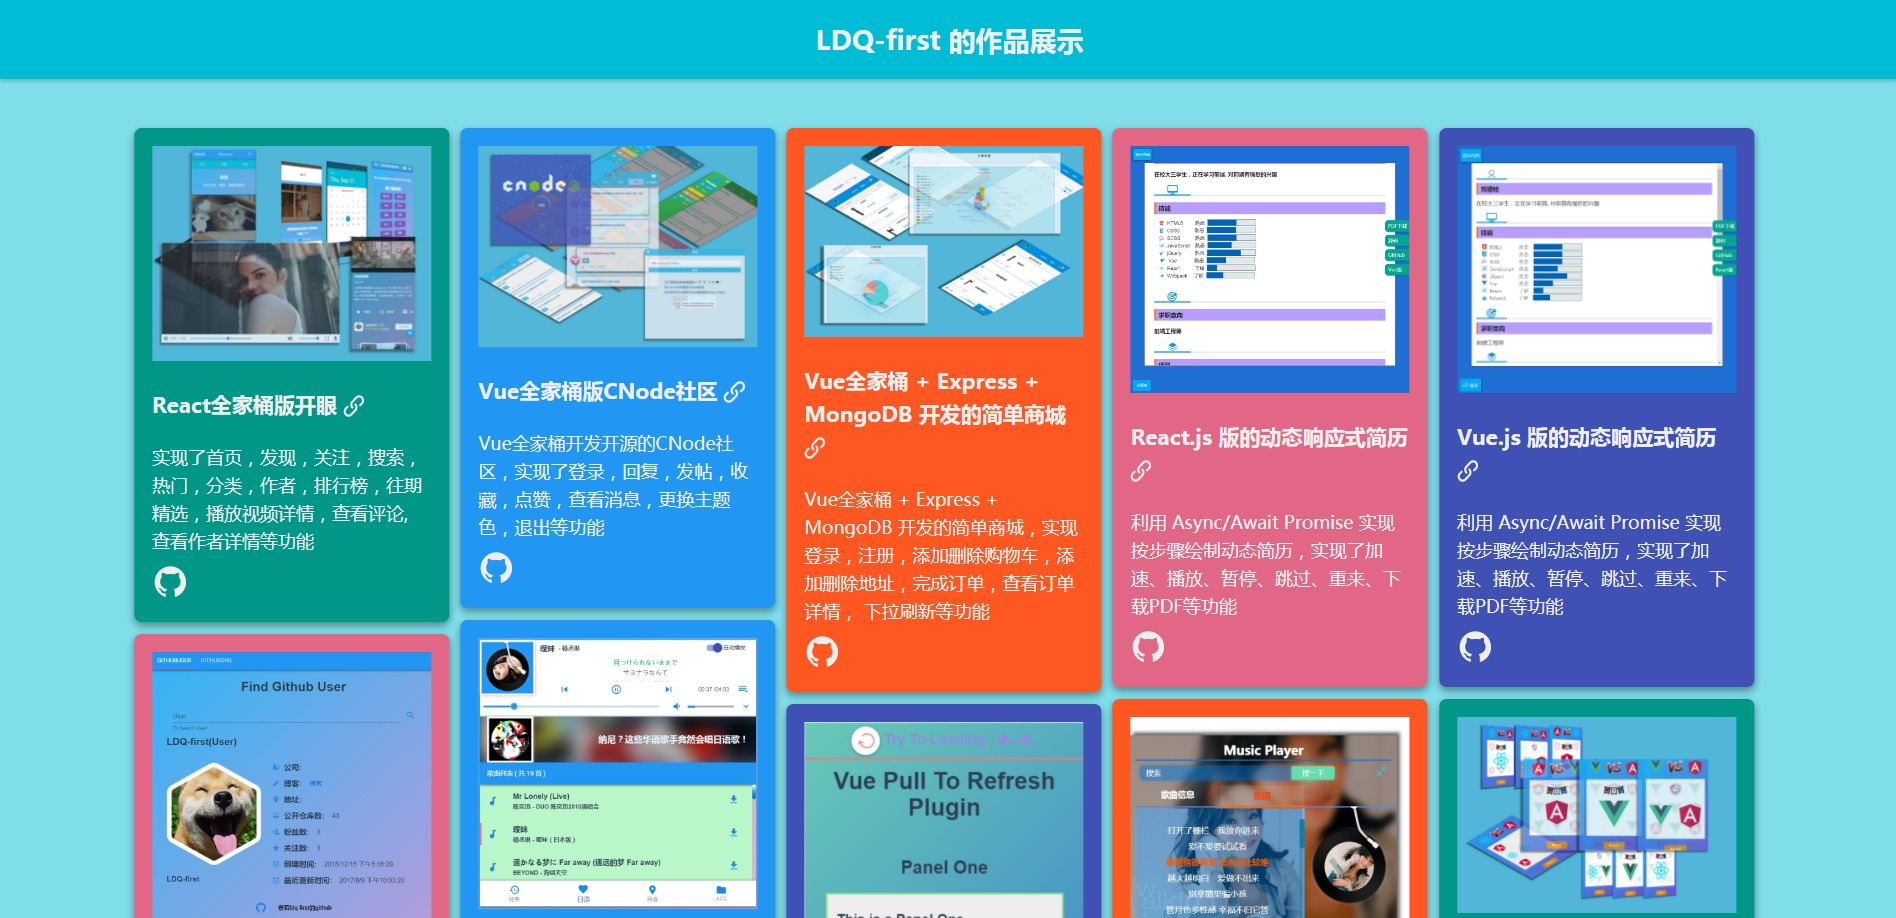
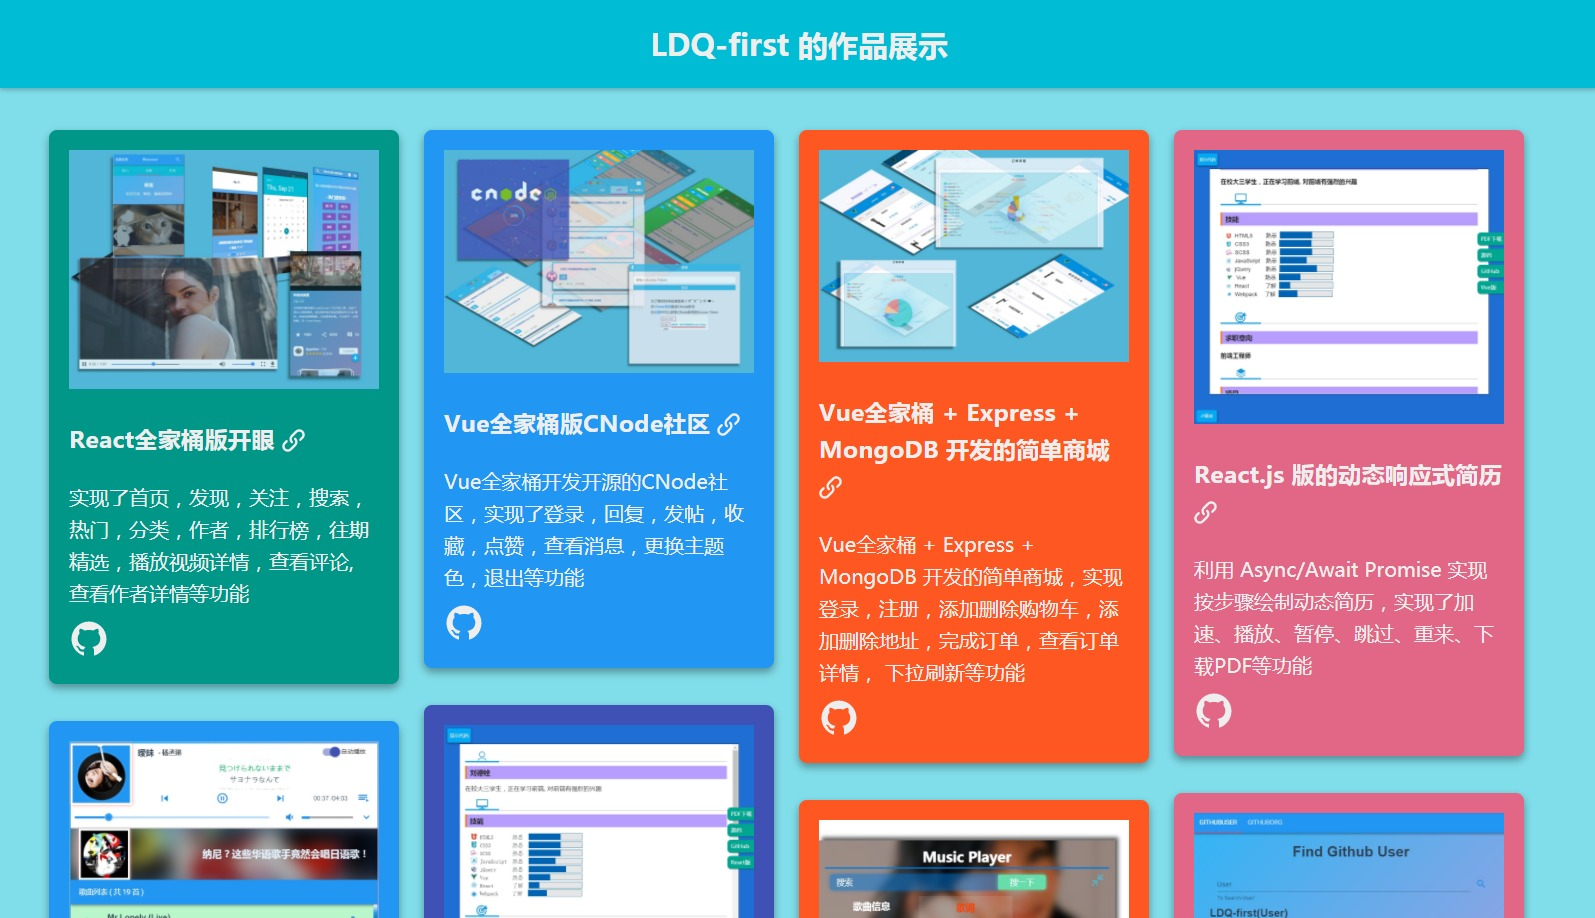
fix bug

diff --git a/js/main.js b/js/main.js
@@ -1,8 +1,22 @@
 
 $.fn.extend({
     Waterfall: function() {
+        $('.loading').removeClass('none');
         var $this = this;
         var father = $this.parent()
+
+         var defereds = [];
+            $this.find('img').each(function() {
+                var defer = $.Deferred();
+                $(this).on('load', function() {
+                    defer.resolve();
+                });
+                defereds.push(defer);
+            })
+            $.when.apply(null, defereds)
+                  .done(function() {
+                      render()
+                  })
 
         function render(){
             var nodeWidth = $this.outerWidth(true),
@@ -13,30 +27,37 @@ $.fn.extend({
                 colSumHeight.push(0);
             }
 
-            $this.each(function(){
-                var $cur = $(this); 
-                var idx = 0,
-                    minSumHeight = colSumHeight[0];
+           
 
-                for(var i = 0; i < colSumHeight.length; i++){
-                    if(colSumHeight[i] < minSumHeight){
-                        idx = i;
-                        minSumHeight = colSumHeight[i];
+
+                 $this.each(function(){
+                    var $cur = $(this); 
+                    var idx = 0,
+                        minSumHeight = colSumHeight[0];
+
+                    for(var i = 0; i < colSumHeight.length; i++){
+                        if(colSumHeight[i] < minSumHeight){
+                            idx = i;
+                            minSumHeight = colSumHeight[i];
+                        }
                     }
-                }
 
-                $cur.css({
-                    left: nodeWidth * idx,
-                    top: minSumHeight
+                    $cur.css({
+                        left: nodeWidth * idx,
+                        top: minSumHeight
+                    })
+
+                    colSumHeight[idx] += $cur.outerHeight(true);
+                }); 
+            
+            
+                var maxHeight = Math.max.apply(null, colSumHeight);
+                father.css({
+                    height: maxHeight,
+                    width: nodeWidth * colNum
                 })
-
-                colSumHeight[idx] += $cur.outerHeight(true);
-            }); 
-            var maxHeight = Math.max.apply(null, colSumHeight);
-            father.css({
-                height: maxHeight,
-                width: nodeWidth * colNum
-            })
+                
+                $('.loading').addClass('none');
 
         }
         render();

diff --git a/css/style.css b/css/style.css
@@ -9,6 +9,7 @@ body {
     padding-top: 72px;
     line-height: 1.6;
     background: #80DEEA;
+    height: 100vh;
 }
 a {
     text-decoration: none;
@@ -45,8 +46,8 @@ p {
 .item {
     position: absolute;
     width: 280px;
-    margin-right: 10px;
-    margin-top: 10px;
+    margin-right: 20px;
+    margin-bottom: 30px;
     transition: all 1s;
     padding: 1em ;
     border-radius: 0.4em;
@@ -54,6 +55,9 @@ p {
                 rgba(0, 0, 0, 0.23) 0px 3px 10px;
     color: #EEE;
 }
+
+
+
 .showImg {
     width: 100%;
 }
@@ -104,4 +108,94 @@ footer {
 
 footer .icon {
     vertical-align: bottom;
+}
+
+.loading {
+    width: 100%;
+    height: 100%;
+    position: fixed;
+    top: 70px;
+    opacity: 1;
+    z-index: 10;
+    background: #80DEEA;
+    display: flex;
+    justify-content: center;
+    align-items: center;
+}
+
+
+.loading.none {
+    opacity: 0;
+    z-index: -10;
+}
+
+
+.loading .loader {
+    position: relative;
+    top: -70px;
+    width: 5em;
+    height: 5em;
+    transform: rotate(165deg);
+}
+
+.loading .loader:before, .loading .loader:after {
+  content: '';
+  position: absolute;
+  top: 50%;
+  left: 50%;
+  display: block;
+  width: 1em;
+  height: 1em;
+  border-radius: 0.5em;
+  transform: translate(-50%, -50%);
+}
+
+.loading .loader:before {
+  animation: before 2s infinite;
+}
+.loading .loader:after {
+  animation: after 2s infinite;
+}
+
+@keyframes before {
+  0% {
+    width: 1em;
+    box-shadow: 2em -1em rgba(225, 20, 98, 0.75),
+               -2em 1em rgba(93, 81, 186, 0.75);
+  }
+  35% {
+    width: 5em;
+    box-shadow: 0 -1em rgba(225, 20, 98, 0.75),
+                0 1em rgba(93, 81, 186, 0.75);
+  }
+  70% {
+    width: 1em;
+    box-shadow: -2em -1em rgba(225, 20, 98, 0.75),
+                2em 1em rgba(93, 81, 186, 0.75);
+  }
+  100% {
+    box-shadow: 2em -1em rgba(225, 20, 98, 0.75),
+               -2em 1em rgba(93, 81, 186, 0.75);
+  }
+}
+@keyframes after {
+  0% {
+    height: 1em;
+    box-shadow: 1em 2em rgba(35, 112, 168, 0.75),
+               -1em -2em rgba(233, 169, 32, 0.75);
+  }
+  35% {
+    height: 5em;
+    box-shadow: 1em 0 rgba(35, 112, 168, 0.75),
+                -1em 0 rgba(233, 169, 32, 0.75);
+  }
+  70% {
+    height: 1em;
+    box-shadow: 1em -2em rgba(35, 112, 168, 0.75),
+                -1em 2em rgba(233, 169, 32, 0.75);
+  }
+  100% {
+    box-shadow: 1em 2em rgba(35, 112, 168, 0.75),
+               -1em -2em rgba(233, 169, 32, 0.75);
+  }
 }

diff --git a/index.html b/index.html
@@ -13,7 +13,10 @@
             LDQ-first </a> 的作品展示
         </h2>
     </header>
-    <div class="content">
+   <div class="loading">
+        <div class="loader"></div>
+   </div>
+    <article class="content">
         <div class="item color-green">
             <img class="showImg" src="img/All/02.jpg" alt="">
             <h3>
@@ -261,13 +264,8 @@
                 </svg>
             </a>
         </div>
-        <!-- <div class="item color-blue">
-            7
-        </div>
-        <div class="item color-purple">
-            8
-        </div> -->
-    </div>
+        
+    </article>
     <footer>
         <p class="copyRight">Copyright © by
             <a class="githubUrl" href="https://github.com/LDQ-first" target="_blank" rel="noopener noreferrer"> 
